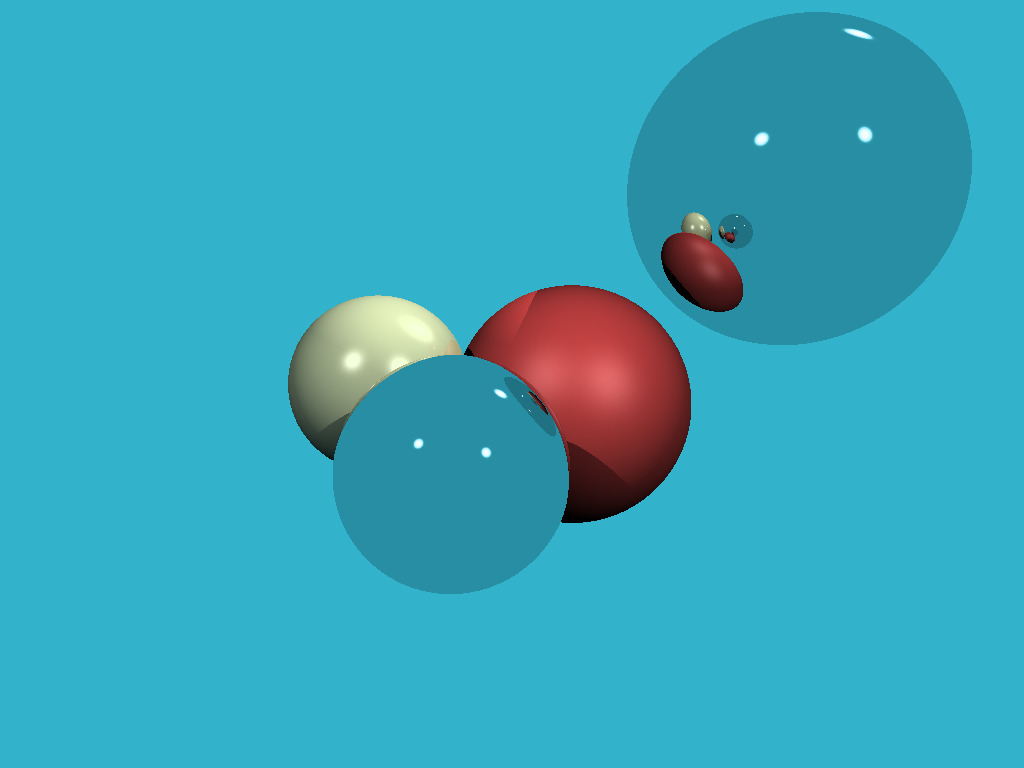
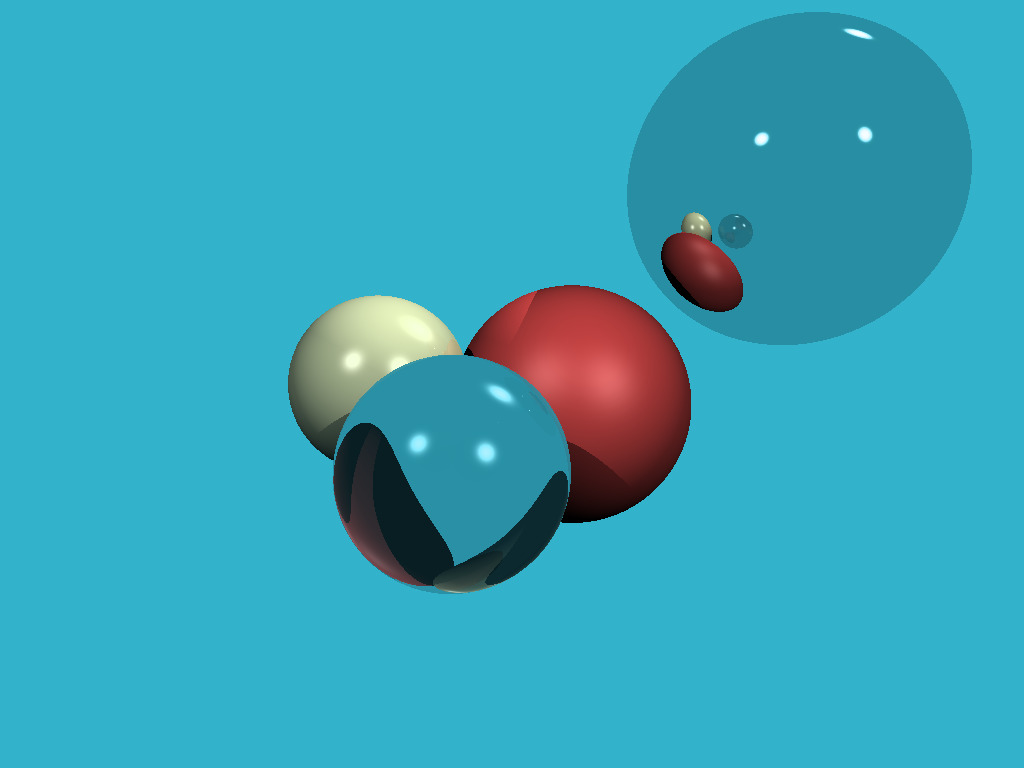
refractions

diff --git a/tinyraytracer.cpp b/tinyraytracer.cpp
@@ -12,9 +12,10 @@ struct Light {
 };
 
 struct Material {
-    Material(const Vec3f &a, const Vec3f &color, const float &spec) : albedo(a), diffuse_color(color), specular_exponent(spec) {}
-    Material() : albedo(1,0,0), diffuse_color(), specular_exponent() {}
-    Vec3f albedo;
+    Material(const float &r, const Vec4f &a, const Vec3f &color, const float &spec) : refractive_index(r), albedo(a), diffuse_color(color), specular_exponent(spec) {}
+    Material() : refractive_index(1), albedo(1,0,0,0), diffuse_color(), specular_exponent() {}
+    float refractive_index;
+    Vec4f albedo;
     Vec3f diffuse_color;
     float specular_exponent;
 };
@@ -44,6 +45,19 @@ Vec3f reflect(const Vec3f &I, const Vec3f &N) {
     return I - N*2.f*(I*N);
 }
 
+Vec3f refract(const Vec3f &I, const Vec3f &N, const float &refractive_index) { // Snell's law
+    float cosi = - std::max(-1.f, std::min(1.f, I*N));
+    float etai = 1, etat = refractive_index;
+    Vec3f n = N;
+    if (cosi < 0) { // if the ray is inside the object, swap the indices and invert the normal to get the correct result
+        cosi = -cosi;
+        std::swap(etai, etat); n = -N;
+    }
+    float eta = etai / etat;
+    float k = 1 - eta*eta*(1 - cosi*cosi);
+    return k < 0 ? Vec3f(0,0,0) : I*eta + n*(eta * cosi - sqrtf(k));
+}
+
 bool scene_intersect(const Vec3f &orig, const Vec3f &dir, const std::vector<Sphere> &spheres, Vec3f &hit, Vec3f &N, Material &material) {
     float spheres_dist = std::numeric_limits<float>::max();
     for (size_t i=0; i < spheres.size(); i++) {
@@ -67,8 +81,11 @@ Vec3f cast_ray(const Vec3f &orig, const Vec3f &dir, const std::vector<Sphere> &s
     }
 
     Vec3f reflect_dir = reflect(dir, N).normalize();
+    Vec3f refract_dir = refract(dir, N, material.refractive_index).normalize();
     Vec3f reflect_orig = reflect_dir*N < 0 ? point - N*1e-3 : point + N*1e-3; // offset the original point to avoid occlusion by the object itself
+    Vec3f refract_orig = refract_dir*N < 0 ? point - N*1e-3 : point + N*1e-3;
     Vec3f reflect_color = cast_ray(reflect_orig, reflect_dir, spheres, lights, depth + 1);
+    Vec3f refract_color = cast_ray(refract_orig, refract_dir, spheres, lights, depth + 1);
 
     float diffuse_light_intensity = 0, specular_light_intensity = 0;
     for (size_t i=0; i<lights.size(); i++) {
@@ -84,7 +101,7 @@ Vec3f cast_ray(const Vec3f &orig, const Vec3f &dir, const std::vector<Sphere> &s
         diffuse_light_intensity  += lights[i].intensity * std::max(0.f, light_dir*N);
         specular_light_intensity += powf(std::max(0.f, -reflect(-light_dir, N)*dir), material.specular_exponent)*lights[i].intensity;
     }
-    return material.diffuse_color * diffuse_light_intensity * material.albedo[0] + Vec3f(1., 1., 1.)*specular_light_intensity * material.albedo[1] + reflect_color*material.albedo[2];
+    return material.diffuse_color * diffuse_light_intensity * material.albedo[0] + Vec3f(1., 1., 1.)*specular_light_intensity * material.albedo[1] + reflect_color*material.albedo[2] + refract_color*material.albedo[3];
 }
 
 void render(const std::vector<Sphere> &spheres, const std::vector<Light> &lights) {
@@ -118,13 +135,14 @@ void render(const std::vector<Sphere> &spheres, const std::vector<Light> &lights
 }
 
 int main() {
-    Material      ivory(Vec3f(0.6,  0.3, 0.1), Vec3f(0.4, 0.4, 0.3),   50.);
-    Material red_rubber(Vec3f(0.9,  0.1, 0.0), Vec3f(0.3, 0.1, 0.1),   10.);
-    Material     mirror(Vec3f(0.0, 10.0, 0.8), Vec3f(1.0, 1.0, 1.0), 1425.);
+    Material      ivory(1.0, Vec4f(0.6,  0.3, 0.1, 0.0), Vec3f(0.4, 0.4, 0.3),   50.);
+    Material      glass(1.5, Vec4f(0.0,  0.5, 0.1, 0.8), Vec3f(0.6, 0.7, 0.8),  125.);
+    Material red_rubber(1.0, Vec4f(0.9,  0.1, 0.0, 0.0), Vec3f(0.3, 0.1, 0.1),   10.);
+    Material     mirror(1.0, Vec4f(0.0, 10.0, 0.8, 0.0), Vec3f(1.0, 1.0, 1.0), 1425.);
 
     std::vector<Sphere> spheres;
     spheres.push_back(Sphere(Vec3f(-3,    0,   -16), 2,      ivory));
-    spheres.push_back(Sphere(Vec3f(-1.0, -1.5, -12), 2,      mirror));
+    spheres.push_back(Sphere(Vec3f(-1.0, -1.5, -12), 2,      glass));
     spheres.push_back(Sphere(Vec3f( 1.5, -0.5, -18), 3, red_rubber));
     spheres.push_back(Sphere(Vec3f( 7,    5,   -18), 4,     mirror));
 
